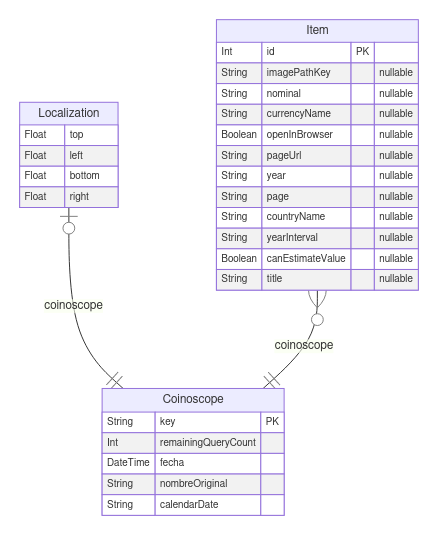
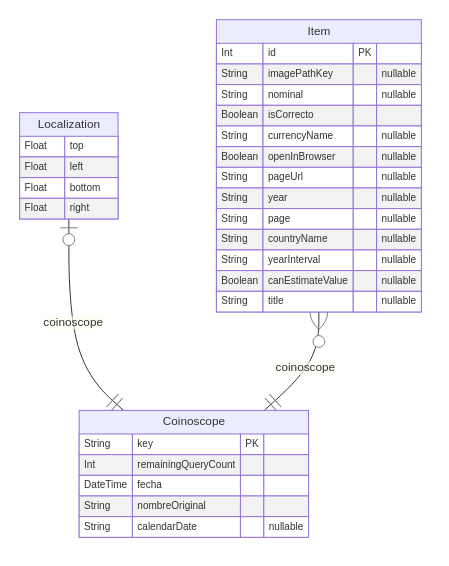
getCoin by id, invalidate data by id

diff --git a/components/compara-page.component.tsx b/components/compara-page.component.tsx
@@ -1,9 +1,11 @@
 import { useState, useEffect } from 'react'
 import Panel from './panel.component'
+import { trpc } from '../utils/trpc'
 
 const ComparaPage= (props:any)=>{
     const {data} =  props.data
     const [item,setItem] = useState(0)
+    const coin = trpc.getCoin.useQuery({key:data[item].key})
     const changeItem=(val:number)=>{
         if (item==0 && val < 0) {
         }else{
@@ -20,7 +22,11 @@ const ComparaPage= (props:any)=>{
                 <button className='col-start-1 col-end-2 rounded-lg py-2 px-4 bg-blue-500' onClick={()=>changeItem(-1)}>Anterior</button>
                 <button className='col-end-7 col-span-1 rounded-lg py-2 px-4 bg-blue-500' onClick={()=>changeItem(1)}>Proxima</button>
             </div>
-            <Panel registro={data[item]} />
+                {
+                    coin.isLoading
+                        ? <div>Cargando...</div>
+                    : <Panel registro={coin.data} />
+                }
             </>
     )
 }

diff --git a/server/routers/_app.ts b/server/routers/_app.ts
@@ -19,6 +19,38 @@ export  const  appRouter =  router({
             })
         return data
     }),
+    getIds: publicProcedure
+    .query(async()=>{
+        const ids = await prisma.coinoscope.findMany({
+            select:{
+                key:true
+            }
+        })
+        return ids
+    }),
+    getCoin: publicProcedure
+    .input(
+        z.object({
+            key:z.string()
+        })
+    )
+    .query(async({input})=>{
+        const coin = await prisma.coinoscope.findFirst({
+            where:{
+                key:input.key
+            },
+            select:{
+                key:true,
+                fecha:true,
+                nombreOriginal:true,
+                remainingQueryCount:true,
+                items:true,
+                localization:true
+            }
+        })
+        return coin
+
+    }),
     updateCoin: publicProcedure
     .input(
         z.object({

diff --git a/components/panel.component.tsx b/components/panel.component.tsx
@@ -13,12 +13,12 @@ const Panel =(props:any)=>{
                         width={400}
                         height={400}
                         />
-                    <Image
+                    {/*<Image
                         alt='Imagen'
                         src={`/originales/${registro?.nombreOriginal.replace("A","B")}.jpg`}
                         width={400}
                         height={400}
-                        />
+                        />*/}
                 </div>
                 <div>
                     <>

diff --git a/pages/control.tsx b/pages/control.tsx
@@ -4,13 +4,14 @@ import { trpc } from '../utils/trpc'
 
 
 const ControlCoins: NextPage<any> = () => {
-    const coins=  trpc.coins.useQuery();
+    //const coins=  trpc.coins.useQuery();
+    const coinsAll = trpc.getIds.useQuery();
     return (
         <>
             {
-            coins.isLoading
+            coinsAll.isLoading
                 ? <div>Cargando...</div>
-                : <ComparaPage data={coins}/>
+                : <ComparaPage data={coinsAll}/>
             }
         </>
     )

diff --git a/components/link-card.component.tsx b/components/link-card.component.tsx
@@ -8,7 +8,7 @@ const LinkCard=(props:any)=>{
     links = links.sort(sortC)
     const update = trpc.updateCoin.useMutation({
         onSuccess(input){
-            utils.coins.invalidate();
+            utils.getCoin.invalidate({key:links[0].coinoscopeId});
         }
     });
     const utils = trpc.useContext();
